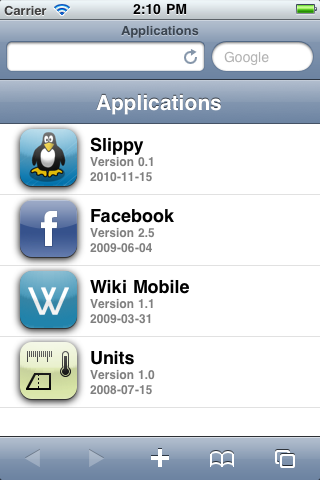
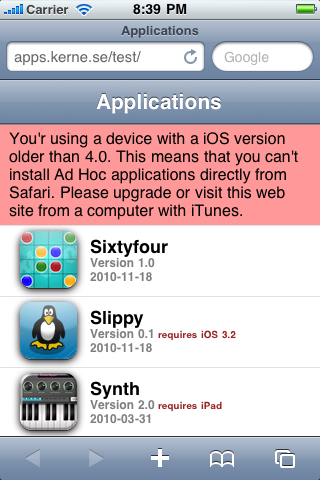
Update screenshots

diff --git a/README.md b/README.md
@@ -27,4 +27,7 @@ Example usage
 -------------
 
 ![iwebkit example image](/wader/ipamanifest/raw/master/iwebkitexample.png)
+
 ![springboard example image](/wader/ipamanifest/raw/master/springboardexample.png)
+
+![desktop example image](/wader/ipamanifest/raw/master/desktopexample.png)
